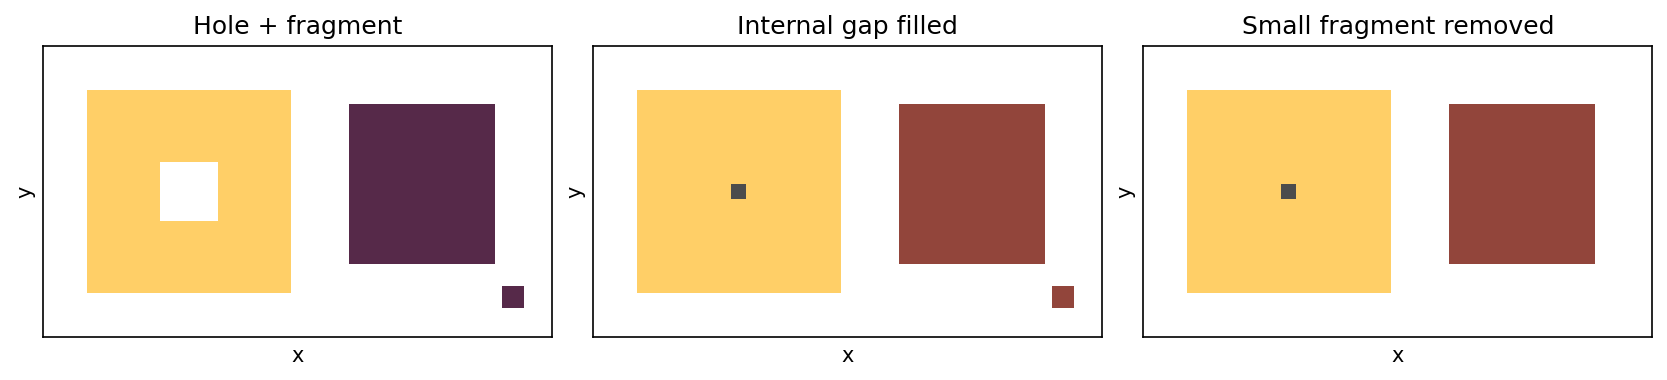
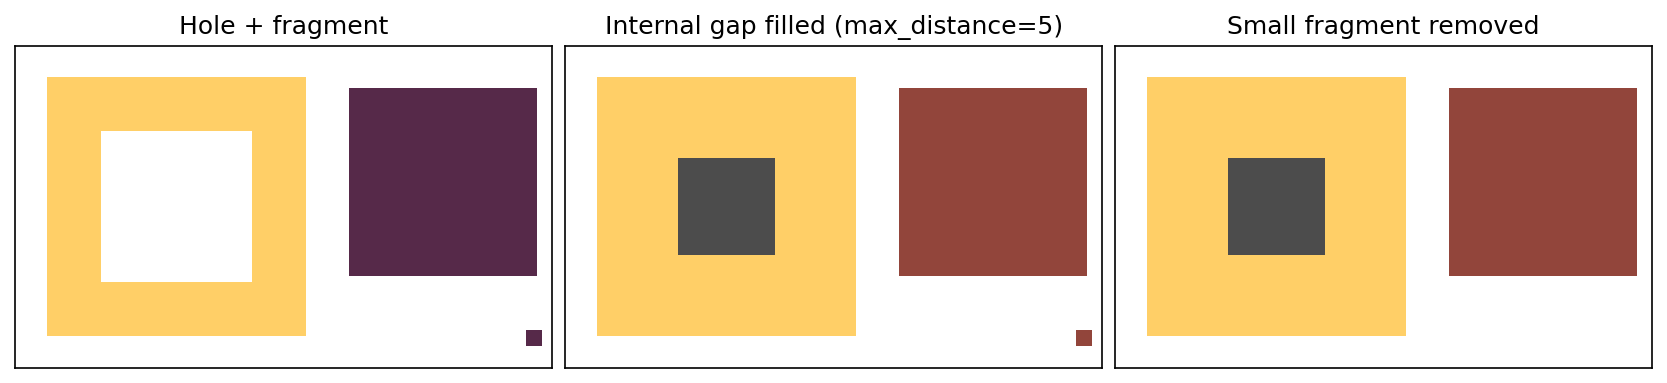
Updated example to showcas max distance filling more clearly.

diff --git a/examples/02_preprocessing_gallery.py b/examples/02_preprocessing_gallery.py
@@ -52,11 +52,11 @@ def _show(ax, labels, title: str) -> None:
 
 def synthetic_cleanup_image() -> np.ndarray:
     """Create a tiny image with a hole and a disconnected fragment."""
-    labels = np.zeros((40, 70), dtype=np.int64)
-    labels[6:34, 6:34] = 5
-    labels[16:24, 16:24] = 0
-    labels[8:30, 42:62] = 10
-    labels[33:36, 63:66] = 10
+    labels = np.zeros((60, 100), dtype=np.int64)
+    labels[6:54, 6:54] = 5
+    labels[16:44, 16:44] = 0
+    labels[8:43, 62:97] = 10
+    labels[53:56, 95:98] = 10
     return labels
 
 
@@ -80,12 +80,12 @@ def main() -> list[Path]:
     preprocessing_gallery = save_figure(fig, "preprocessing_gallery.png")
 
     synthetic = synthetic_cleanup_image()
-    filled = lit.fill_internal_gaps_edt(synthetic, background=BACKGROUND, max_distance=3)
+    filled = lit.fill_internal_gaps_edt(synthetic, background=BACKGROUND, max_distance=5)
     cleaned = lit.remove_non_self_connected_bits(filled, background=BACKGROUND)
 
     fig, axes = plt.subplots(1, 3, figsize=(11, 3.5), layout="constrained")
     _show(axes[0], synthetic, "Hole + fragment")
-    _show(axes[1], filled, "Internal gap filled")
+    _show(axes[1], filled, "Internal gap filled (max_distance=5)")
     _show(axes[2], cleaned, "Small fragment removed")
     cleanup_gallery = save_figure(fig, "cleanup_gallery.png")
 